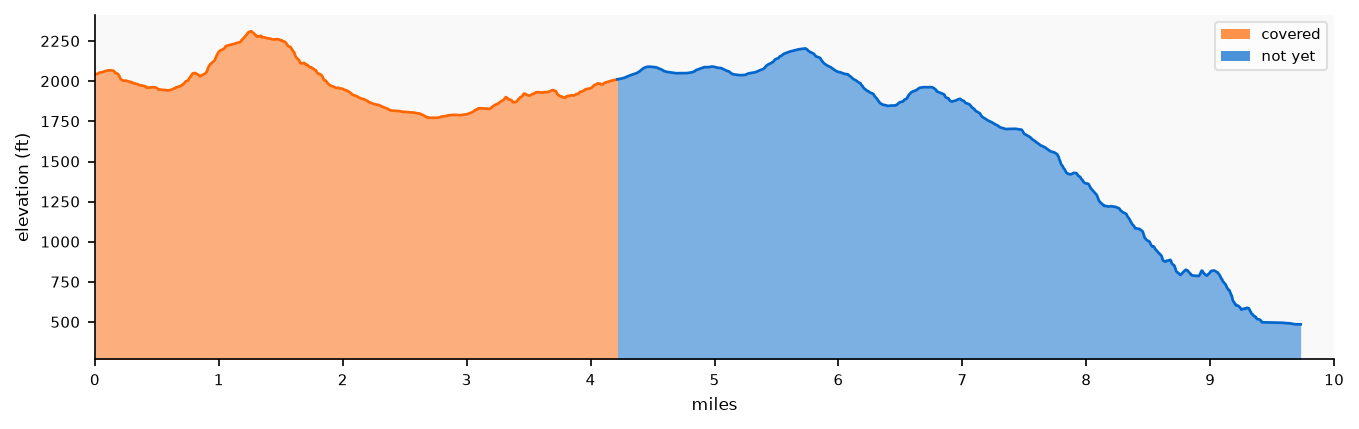
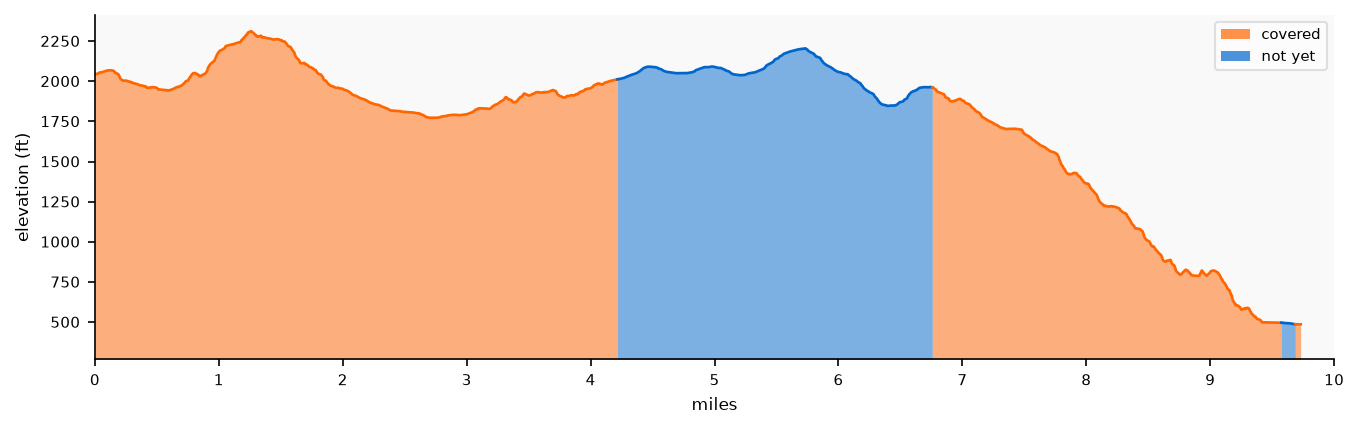
Add 2026-08-16 BBT run (Piuma to Puerco Cyn Rd)
Extends Segment 5 coverage 2.7mi net-new west from Piuma TH and clips
0.02mi of Segment 6 at the boundary. Also fixes sync.py's SEGMENT_SPLITS,
which still had the stale pre-boundary-fix coordinates (same issue
already fixed in generate_elevation.py/recompute_coverage.py).

Changed region(s): [[0.6799, 0.2121, 0.9581, 0.8485]]

diff --git a/tools/bbt/sync.py b/tools/bbt/sync.py
@@ -41,17 +41,16 @@ BBT_THRESH_M = 50  # within 50 m = "on the BBT"
 # make the naive longitude-sorted stitcher zigzag, showing as a stray line on maps.
 EXCLUDED_WAY_IDS = {13340743, 122087883, 204589613, 1216972055}
 
-# Approximate segment boundary coords (east to west).
 SEGMENT_SPLITS = [
-    ("Ray Miller TH",        34.0788, -119.0255),
-    ("Danielson Ranch",      34.0753, -118.9200),
-    ("Mishe Mokwa TH",       34.0805, -118.8505),
-    ("Encinal Canyon Rd",    34.0815, -118.8200),
-    ("Latigo Canyon Rd",     34.0820, -118.7910),
+    ("Ray Miller TH",        34.086333, -119.036700),  # west terminus
+    ("Danielson Ranch",      34.125433, -118.994933),  # Danielson Ranch on Big Sycamore Canyon, south end of pavement
+    ("Mishe Mokwa TH",       34.114317, -118.918183),  # Yerba Buena Rd at Mishe Mokwa Trailhead
+    ("Encinal Canyon Rd",    34.085050, -118.861383),  # Trancas Canyon Trail at Encinal Canyon Rd
+    ("Latigo Canyon Rd",     34.077917, -118.793900),  # Newton Canyon Trail at Latigo Canyon Rd
     ("Piuma TH",             34.0799, -118.7037),
     ("Saddle Peak",          34.0819, -118.6441),
     ("Trippet Ranch",        34.0934, -118.5878),
-    ("Will Rogers SHP",      34.0540, -118.5245),
+    ("Will Rogers SHP",      34.0540, -118.5245),  # east terminus
 ]
 
 SEGMENT_SLUGS = [

diff --git a/content/report/adhoc/santa-monica-mountains-running.md b/content/report/adhoc/santa-monica-mountains-running.md
@@ -79,7 +79,7 @@ bbt_segments:
 - name: "Segment 5: Latigo Canyon Road to Piuma TH"
   slug: 05-latigo-to-piuma
   miles_approx: 9.7
-  miles_covered: 4.19
+  miles_covered: 6.89
   touched: true
   complete: false
   notes: 2010 run covered the Piuma-to-Latigo section. Castro Crest area. Total 4.21 mi split across segs 4/5. Passes Newton Canyon and Solstice Canyon watershed.
@@ -96,11 +96,15 @@ bbt_segments:
     date: *id001
     miles_this_seg: 4.19
     miles_new: 4.19
-  elev_gain_ft: 832
+  - garmin_id: 23999963929
+    date: '2026-08-16'
+    miles_this_seg: 2.7
+    miles_new: 2.7
+  elev_gain_ft: 2433
 - name: "Segment 6: Saddle Peak to Piuma TH"
   slug: 06-saddle-peak-to-piuma
   miles_approx: 7.2
-  miles_covered: 5.28
+  miles_covered: 5.3
   touched: true
   complete: false
   notes: Lois Ewen Overlook and Saddle Peak summit. Descends via sandstone outcrops to Malibu Canyon. 2026 runs cover the Saddle Peak descent to within ~1.9 mi of Piuma TH.
@@ -121,6 +125,10 @@ bbt_segments:
     date: '2026-07-12'
     miles_this_seg: 5.28
     miles_new: 5.27
+  - garmin_id: 23999963929
+    date: '2026-08-16'
+    miles_this_seg: 0.02
+    miles_new: 0.02
   elev_gain_ft: 371
 - name: "Segment 7: Saddle Peak to Trippet Ranch"
   slug: 07-saddle-peak-to-trippet
@@ -500,6 +508,15 @@ runs:
   garmin_id: 23572460073
   bbt: true
   notes: Out-and-back from Saddle Peak Rd into Malibu Canyon. Confirmed 5.27 mi net-new on Segment 6, extending coverage west from Saddle Peak to within ~1.9 mi of Piuma TH.
+- date: '2026-08-16'
+  name: BBT - Piuma to Puerco Cyn Rd
+  area: bbt
+  miles: 5.5
+  elev_gain_ft: 1441
+  elev_loss_ft: 1446
+  garmin_id: 23999963929
+  bbt: true
+  notes: Confirmed BBT. Extended Segment 5 coverage 2.7 mi net-new west from Piuma TH, plus a 0.02 mi clip of Segment 6 at the Piuma boundary.
 ---
 
 {{< summary.inline >}}
